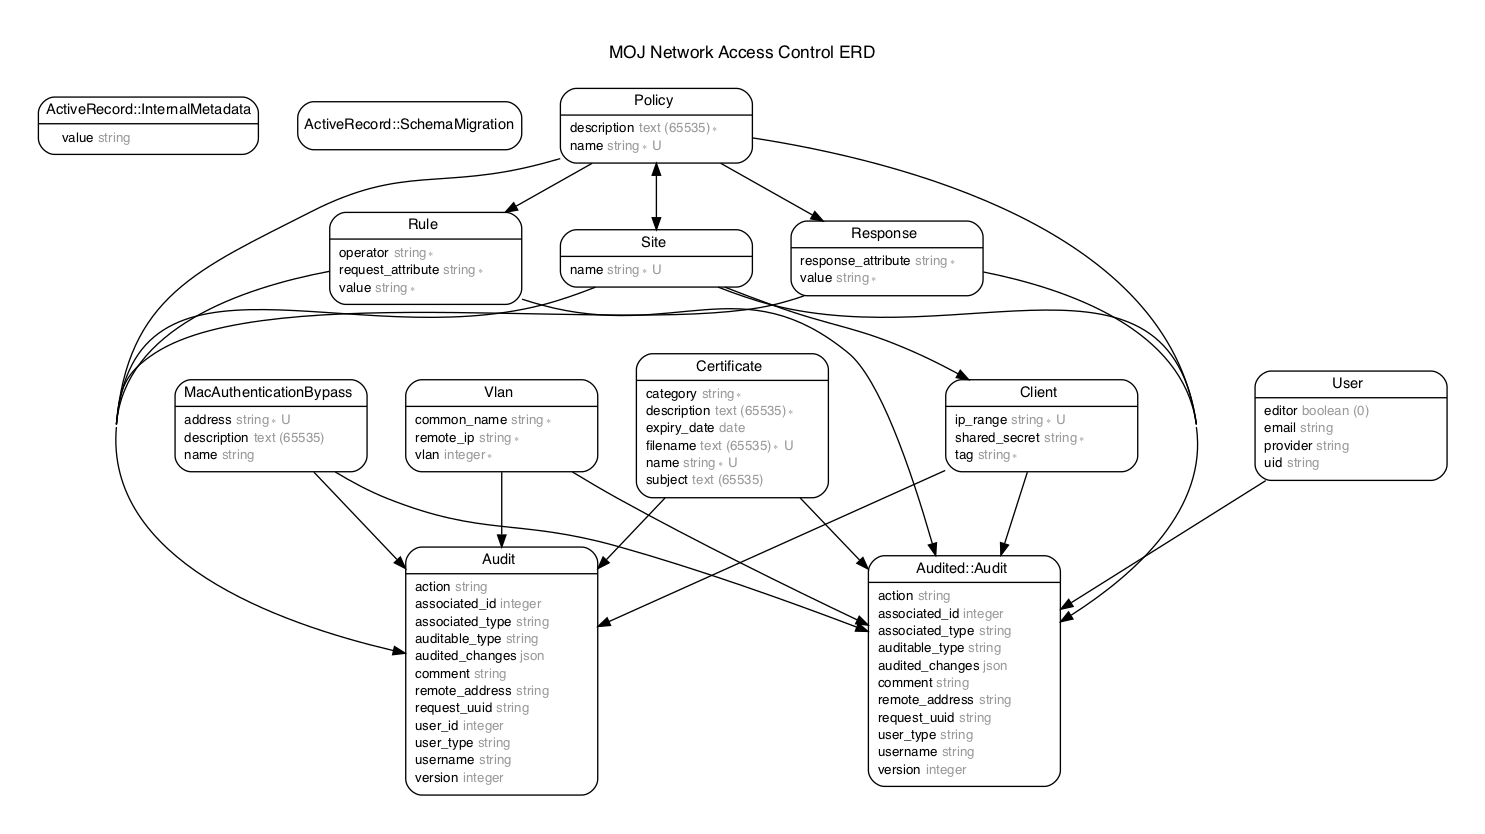
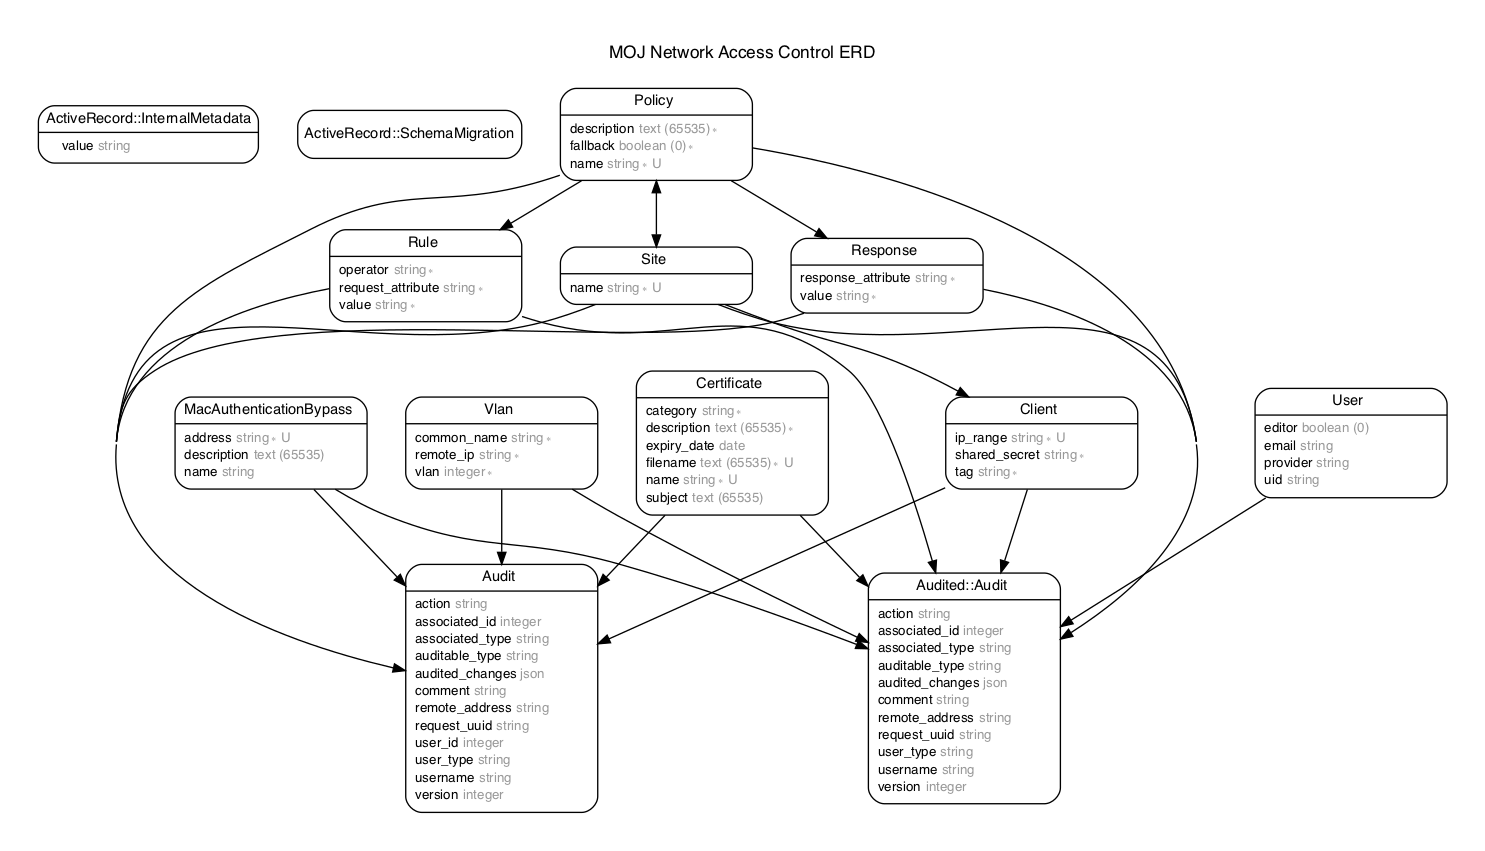
Add fallback field to policies

diff --git a/db/schema.rb b/db/schema.rb
@@ -10,7 +10,7 @@
 #
 # It's strongly recommended that you check this file into your version control system.
 
-ActiveRecord::Schema.define(version: 2021_08_11_133901) do
+ActiveRecord::Schema.define(version: 2021_08_11_144906) do
 
   create_table "audits", charset: "utf8", force: :cascade do |t|
     t.integer "auditable_id"
@@ -68,6 +68,7 @@ ActiveRecord::Schema.define(version: 2021_08_11_133901) do
     t.text "description", null: false
     t.datetime "created_at", precision: 6, null: false
     t.datetime "updated_at", precision: 6, null: false
+    t.boolean "fallback", null: false
   end
 
   create_table "policies_sites", id: false, charset: "utf8", force: :cascade do |t|

diff --git a/app/models/policy.rb b/app/models/policy.rb
@@ -1,6 +1,7 @@
 class Policy < ApplicationRecord
   validates :name, presence: true, uniqueness: { case_sensitive: false }
-  validates :description, presence: true
+  validates_presence_of :description
+  validates_inclusion_of :fallback, in: [true, false]
 
   has_many :rules, dependent: :destroy
   has_many :responses, dependent: :destroy

diff --git a/spec/factories/policy.rb b/spec/factories/policy.rb
@@ -2,5 +2,6 @@ FactoryBot.define do
   factory :policy do
     sequence(:name) { |n| "Policy #{n}" }
     sequence(:description) { |n| "Policy description #{n}" }
+    fallback { false }
   end
 end

diff --git a/db/migrate/20210811144906_add_fallback_to_policies_table.rb b/db/migrate/20210811144906_add_fallback_to_policies_table.rb
@@ -1,0 +1,5 @@
+class AddFallbackToPoliciesTable < ActiveRecord::Migration[6.1]
+  def change
+    add_column :policies, :fallback, :bool, null: false
+  end
+end
